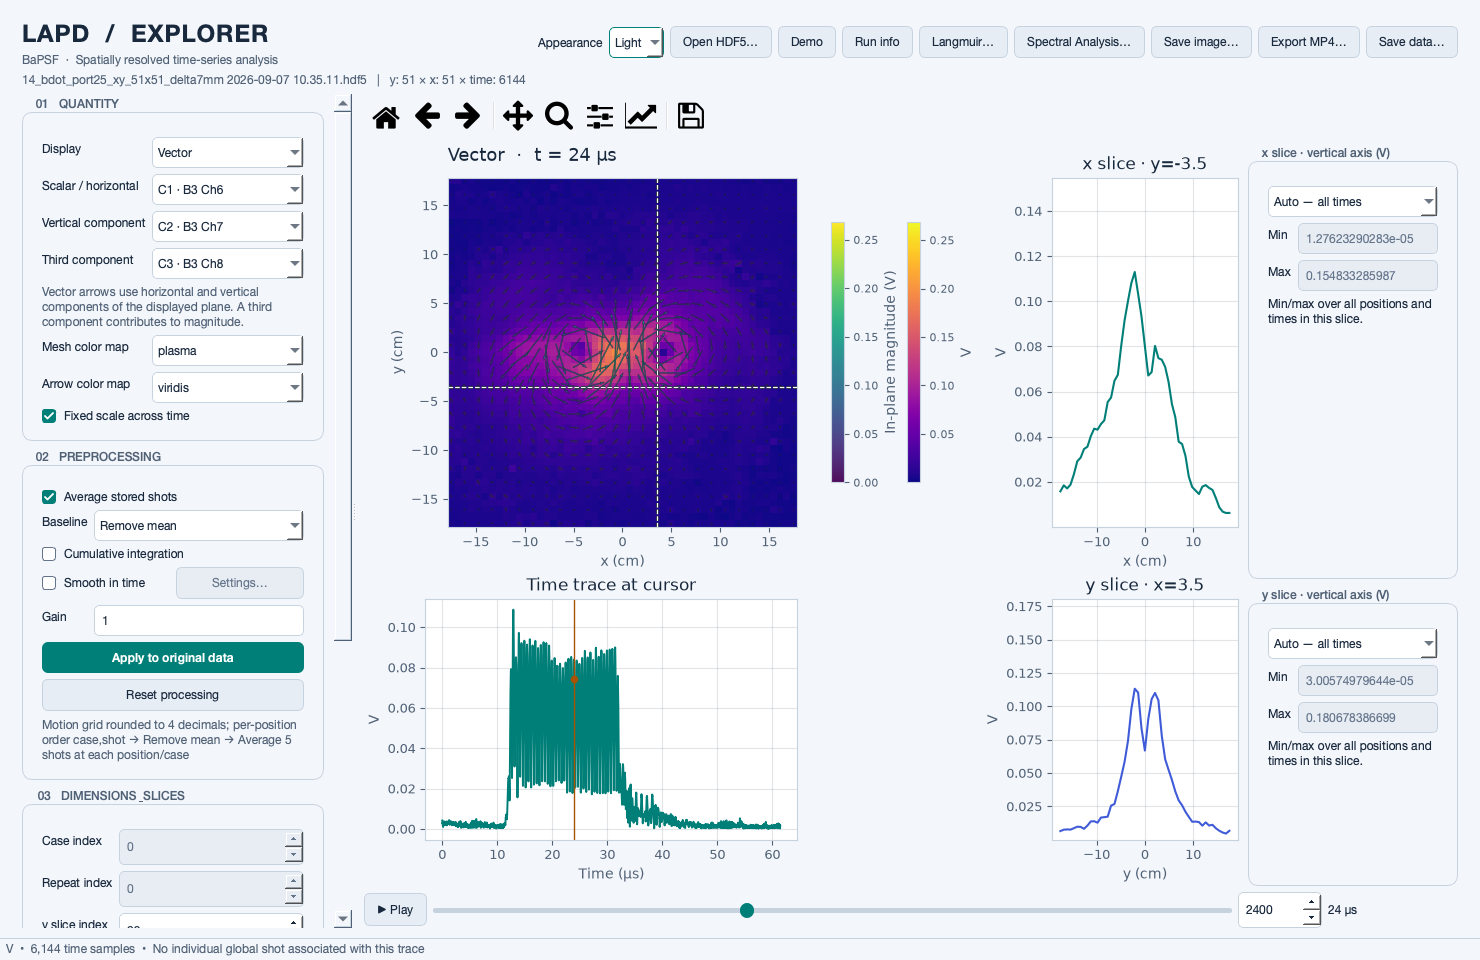
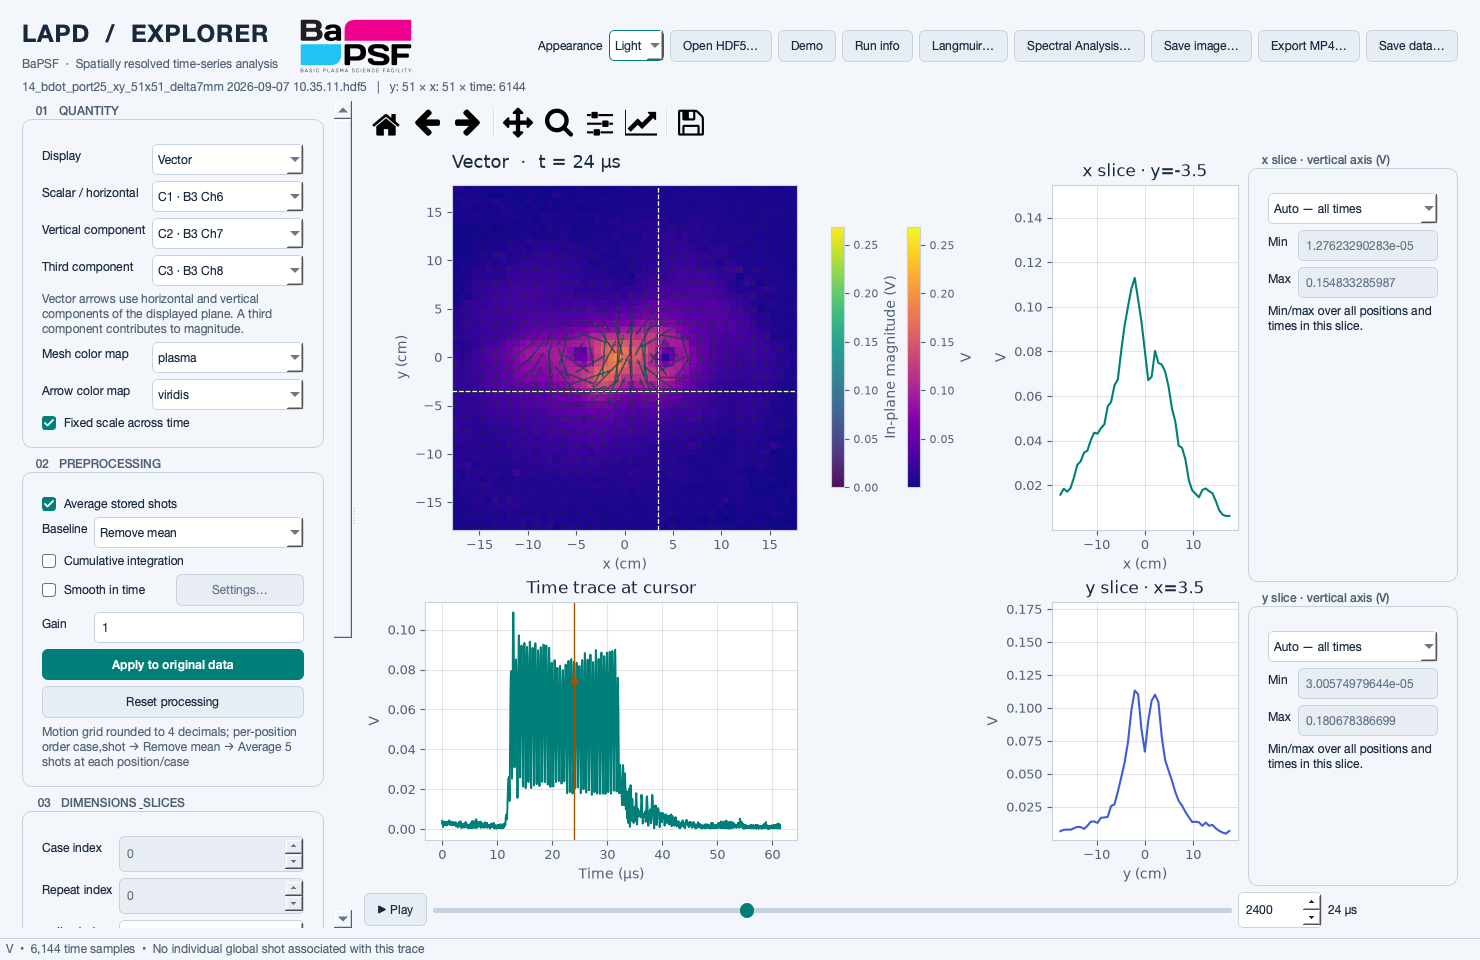
Add theme-aware BaPSF branding

diff --git a/lapd_explorer/appearance.py b/lapd_explorer/appearance.py
@@ -1,6 +1,10 @@
-"""Shared appearance colors for Qt and independently rendered figures."""
+"""Shared appearance colors and branding for Qt and rendered figures."""
 from string import Template
 from pathlib import Path
+from PySide6 import QtCore as C, QtGui as G, QtWidgets as W
+
+
+ASSET_DIR = Path(__file__).parent / "assets"
 
 THEMES = {
     "Light": dict(bg="#f3f6fa", panel="#ffffff", fg="#18283d", muted="#506176",
@@ -19,7 +23,7 @@ def colors(appearance="Light"):
 
 
 def stylesheet(appearance="Light"):
-    c = dict(colors(appearance), check=(Path(__file__).parent / "assets" / f"check-{appearance.lower()}.svg").as_posix())
+    c = dict(colors(appearance), check=(ASSET_DIR / f"check-{appearance.lower()}.svg").as_posix())
     return Template("""QWidget { background: $bg; color: $fg; font-family: 'Helvetica Neue', 'Segoe UI'; font-size: 12px; }
 QLabel#brand { font-size: 24px; font-weight: 700; letter-spacing: 1px; }
 QLabel#subtitle { color: $muted; font-size: 12px; }
@@ -54,9 +58,36 @@ QProgressBar::chunk { background: $accent; }
 """).substitute(c)
 
 
+class FacilityLogo(W.QLabel):
+    """Compact, theme-aware BaPSF wordmark rendered from the source PNG."""
+
+    def __init__(self, appearance="Light", height=48, colorful=False, parent=None):
+        super().__init__(parent)
+        self.display_height = height
+        self.colorful = colorful
+        self.variant = ""
+        self.setAlignment(C.Qt.AlignCenter)
+        self.setSizePolicy(W.QSizePolicy.Fixed, W.QSizePolicy.Fixed)
+        self.setAccessibleName("Basic Plasma Science Facility")
+        self.setToolTip("Basic Plasma Science Facility")
+        self.set_appearance(appearance)
+
+    def set_appearance(self, appearance):
+        variant = "White" if appearance == "Dark" else "Color" if self.colorful else "Black"
+        self.variant = variant
+        pixmap = G.QPixmap(str(ASSET_DIR / f"BaPSF_Logo+Name_{variant}_RGB.png"))
+        if pixmap.isNull():
+            self.setText("BaPSF")
+            self.setFixedSize(90, self.display_height)
+            return
+        pixmap = pixmap.scaledToHeight(self.display_height, C.Qt.SmoothTransformation)
+        self.setText("")
+        self.setPixmap(pixmap)
+        self.setFixedSize(pixmap.size())
+
+
 def apply_appearance(app, appearance="Light"):
     """Set native-control colors too, including icons, checkboxes and dialogs."""
-    from PySide6 import QtGui as G
     c = colors(appearance)
     palette = G.QPalette()
     for role, key in {"Window": "bg", "WindowText": "fg", "Base": "panel", "AlternateBase": "inactive",

diff --git a/lapd_explorer/spectral_gui.py b/lapd_explorer/spectral_gui.py
@@ -5,7 +5,7 @@ import numpy as np
 from PySide6 import QtCore as C, QtWidgets as W
 from matplotlib.backends.backend_qtagg import FigureCanvasQTAgg, NavigationToolbar2QT
 from . import spectral as analysis, plotting
-from .appearance import colors
+from .appearance import FacilityLogo, colors
 from .langmuir_gui import IntervalEditor, TraceView
 from .widgets import Worker, combo, spin
 
@@ -38,6 +38,14 @@ class SpectralDialog(W.QDialog):
         self.timer = C.QTimer(self)
         self.timer.timeout.connect(self.advance)
         layout = W.QVBoxLayout(self)
+        header = W.QHBoxLayout()
+        title = W.QLabel("Spectral analysis")
+        title.setObjectName("sectionTitle")
+        header.addWidget(title)
+        header.addStretch()
+        self.facility_logo = FacilityLogo(appearance, height=46)
+        header.addWidget(self.facility_logo)
+        layout.addLayout(header)
         description = " · ".join(f"{c}: {n}" for c, n in zip("AB", names))
         note = W.QLabel(description + (" · Vector components" if vector else " · Scalar inputs") +
                         "\nUses the browser's currently processed data. " + (" → ".join(data.history) or "Original data") +
@@ -593,6 +601,7 @@ class SpectralDialog(W.QDialog):
 
     def update_appearance(self, appearance):
         self.appearance = appearance
+        self.facility_logo.set_appearance(appearance)
         self.trace_view.fig.set_facecolor(colors(appearance)["bg"])
         for ax in self.trace_view.axes:
             plotting.style(ax, colors(appearance))

diff --git a/lapd_explorer/app.py b/lapd_explorer/app.py
@@ -12,7 +12,7 @@ from .model import demo, preprocess, quantity
 from . import io, plotting
 from .widgets import Worker, ImportDialog, SmoothingDialog, SliceAxisControls, combo, spin
 from .smoothing import DEFAULT_SMOOTHING
-from .appearance import apply_appearance, colors, stylesheet
+from .appearance import FacilityLogo, apply_appearance, colors, stylesheet
 
 # Kept for scripts that import the application's default stylesheet.
 STYLE = stylesheet("Light")
@@ -51,6 +51,9 @@ class MainWindow(W.QMainWindow):
         brandcol.addWidget(brand)
         brandcol.addWidget(subtitle)
         top.addLayout(brandcol)
+        top.addSpacing(14)
+        self.facility_logo = FacilityLogo("Light", height=56, colorful=True)
+        top.addWidget(self.facility_logo, 0, C.Qt.AlignVCenter)
         top.addStretch()
         top.addWidget(W.QLabel("Appearance"))
         self.appearance = combo(["Light", "Dark"])
@@ -217,6 +220,7 @@ class MainWindow(W.QMainWindow):
 
     def change_appearance(self, appearance):
         apply_appearance(W.QApplication.instance(), appearance)
+        self.facility_logo.set_appearance(appearance)
         # Refresh toolbar icons for Matplotlib versions that cache their color.
         for _, _, image_file, callback in self.toolbar.toolitems:
             if image_file and callback in self.toolbar._actions:

diff --git a/lapd_explorer/langmuir_gui.py b/lapd_explorer/langmuir_gui.py
@@ -6,7 +6,7 @@ from PySide6 import QtCore as C, QtWidgets as W
 from matplotlib.backends.backend_qtagg import FigureCanvasQTAgg, NavigationToolbar2QT
 from matplotlib.widgets import SpanSelector
 from . import langmuir as analysis, plotting
-from .appearance import colors
+from .appearance import FacilityLogo, colors
 from .widgets import Worker, combo, spin
 
 
@@ -237,6 +237,14 @@ class LangmuirDialog(W.QDialog):
         self.worker = None
         self.cancel_event = threading.Event()
         layout = W.QVBoxLayout(self)
+        header = W.QHBoxLayout()
+        title = W.QLabel("Langmuir probe analysis")
+        title.setObjectName("sectionTitle")
+        header.addWidget(title)
+        header.addStretch()
+        self.facility_logo = FacilityLogo(appearance, height=46)
+        header.addWidget(self.facility_logo)
+        layout.addLayout(header)
         split = W.QSplitter()
         layout.addWidget(split, 1)
         scroll = W.QScrollArea()
@@ -511,6 +519,7 @@ class LangmuirDialog(W.QDialog):
 
     def update_appearance(self, appearance):
         self.appearance = appearance
+        self.facility_logo.set_appearance(appearance)
         self.trace_view.appearance = appearance
         theme = colors(appearance)
         self.trace_view.fig.set_facecolor(theme["bg"])

diff --git a/lapd_explorer/widgets.py b/lapd_explorer/widgets.py
@@ -1,6 +1,7 @@
 """Qt workers and the acquisition import dialog."""
 from PySide6 import QtCore as C, QtWidgets as W
 from . import io
+from .appearance import FacilityLogo
 
 
 class Worker(C.QThread):
@@ -40,9 +41,15 @@ class ImportDialog(W.QDialog):
         self.setWindowTitle("Import acquisition")
         self.resize(780, 760)
         layout = W.QVBoxLayout(self)
+        header = W.QHBoxLayout()
         title = W.QLabel("Map your acquisition")
         title.setObjectName("sectionTitle")
-        layout.addWidget(title)
+        header.addWidget(title)
+        header.addStretch()
+        appearance = parent.appearance.currentText() if parent is not None and hasattr(parent, "appearance") else "Light"
+        self.facility_logo = FacilityLogo(appearance, height=46)
+        header.addWidget(self.facility_logo)
+        layout.addLayout(header)
         hint = W.QLabel("Select 1–3 channels, then describe the stored records. Time must be the last raw axis.")
         hint.setWordWrap(True)
         layout.addWidget(hint)

diff --git a/tests/test_gui.py b/tests/test_gui.py
@@ -22,6 +22,11 @@ def test_gui_linked_slices_processing_point_line_and_movie(app, tmp_path):
     w.show()
     w.draw()
     app.processEvents()
+    assert w.facility_logo.variant == "Color"
+    assert w.facility_logo.height() == 56
+    w.appearance.setCurrentText("Dark")
+    assert w.facility_logo.variant == "White"
+    w.appearance.setCurrentText("Light")
     w.mode.setCurrentText("Vector")
     w.draw()
     assert w._values.shape == (25, 31, 160)
@@ -84,6 +89,8 @@ def test_import_dialog_applies_shot_guess_and_keeps_fields_editable(app, monkeyp
                        "position_field": "xyz_target"},
     )
     dialog = ImportDialog("fake.h5", info)
+    assert dialog.facility_logo.variant == "Black"
+    assert dialog.facility_logo.height() == 46
     dialog.start_guess()
     while dialog.guess_worker.isRunning():
         app.processEvents()

diff --git a/README.md b/README.md
@@ -1,5 +1,7 @@
 # LAPD Explorer
 
+<img src="lapd_explorer/assets/BaPSF_Logo+Name_Color_RGB.png" alt="Basic Plasma Science Facility" width="300">
+
 LAPD Explorer is a cross-platform Python desktop application for inspecting,
 processing, visualizing, and exporting BaPSF / Large Plasma Device (LAPD) HDF5
 time-series data. It uses PySide6, Matplotlib, NumPy, SciPy, and `bapsflib`.
@@ -421,3 +423,11 @@ API behavior has been checked against `bapsflib` 2026.4.0 and its
 Irregular point clouds and volume scans are not supported. Raw import assumes a
 final time axis. Calibration, arbitrary per-shot parameter tables, per-channel
 time-offset correction, and out-of-core processing remain extension points.
+
+## Credits
+
+This tool was developed at the Basic Plasma Science Facility, which is a
+Collaborative Research Facility funded by the U.S. Department of Energy.
+
+LAPD Explorer was vibe coded by Stephen Vincena with the aid of OpenAI Codex
+using Astra and Sol models.
